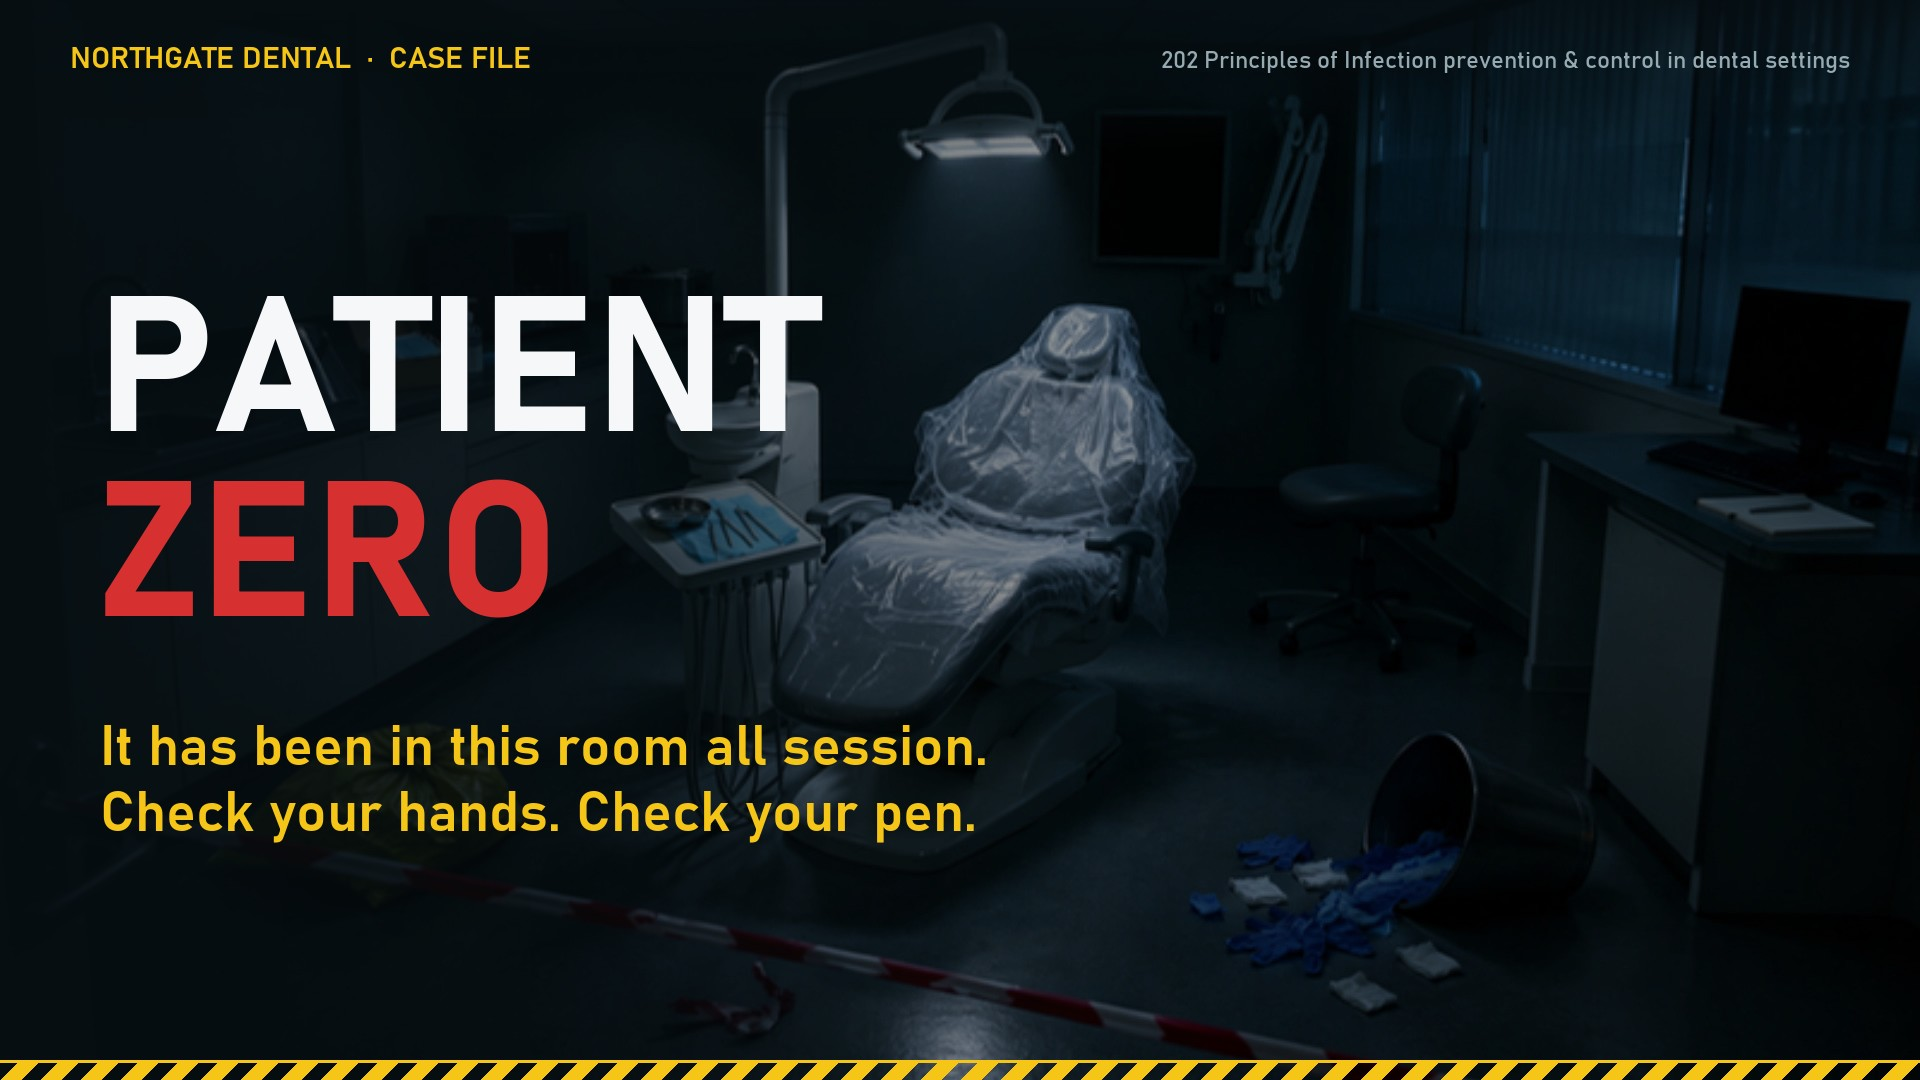
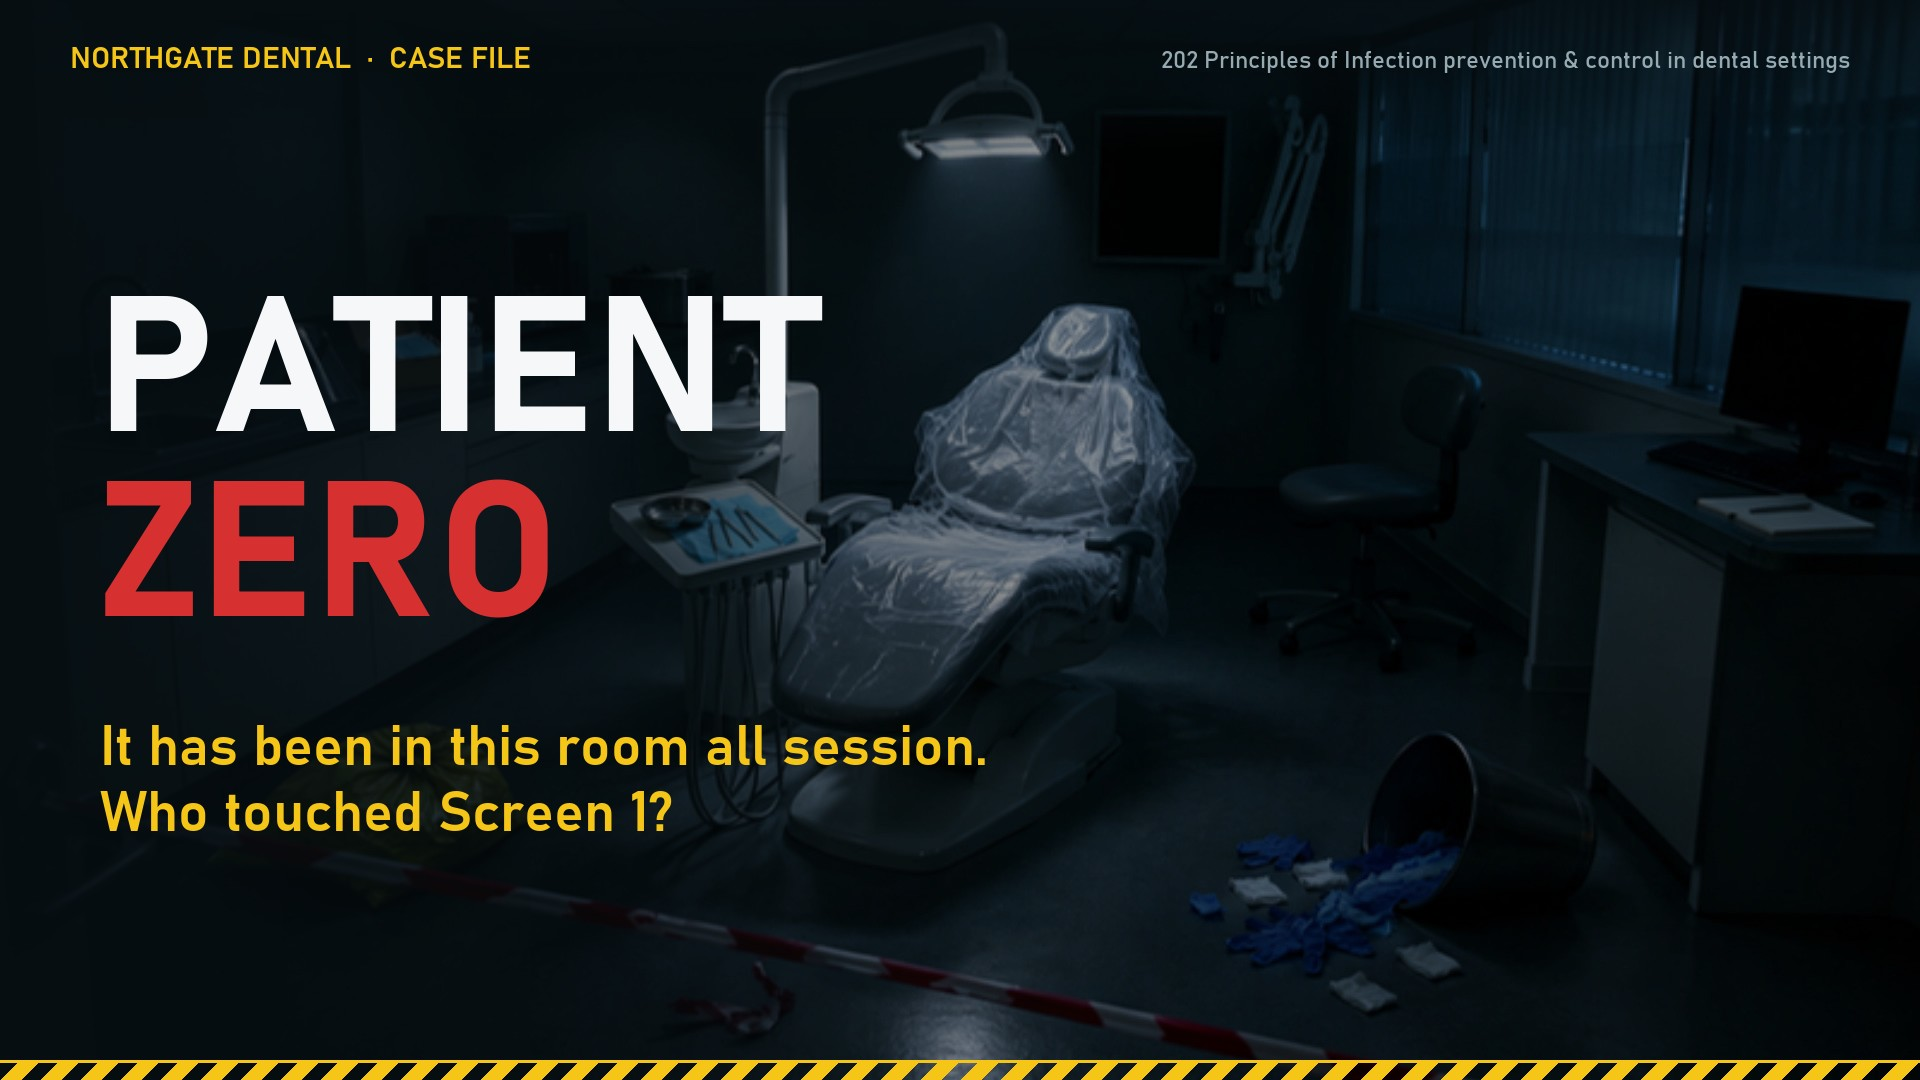
Patient Zero: touch-screen Patient Zero and voicemail transcript
No glitter: the first learner to tap Touch Screen 1 is Patient Zero.
The voicemail is now a written transcript slide. Adds a replace script
for anyone who ran the first version.

Changed region(s): [[0.0312, 0.7333, 0.5, 0.7944]]

diff --git a/docs/lessons/WWW.md b/docs/lessons/WWW.md
@@ -19,14 +19,14 @@ What proves itself here is collected in [WAYS-OF-WORKING.md](WAYS-OF-WORKING.md)
 - **Length:** 90 minutes, 28 steps. About 60 minutes at the whiteboard tables. Four whole-class moves
 - **Source:** the four cross infection decks in `Dentistry/` (Transmission of Micro-organisms, Prevention of Transmission, Infection Control in the Decontamination Room, Legislations), plus a Michigan Engineering clip on dental aerosols (20s to 66s)
 - **Lesson file:** [dental-patient-zero.sql](dental-patient-zero.sql)
-- **Slides:** 17 slides in the teacher's wording over five Canva AI photos, a hotspot crime scene photo, and a voicemail, in `public/lessons/dental-patient-zero/` and the media storage
+- **Slides:** 18 slides (17 in the teacher's wording, plus a voicemail transcript) over five Canva AI photos, and a hotspot crime scene photo, in `public/lessons/dental-patient-zero/` and the media storage
 - **Table packs:** none. Whiteboard tables yes, no printing, as asked.
 
 ### WWW in the build
 
 - **A story, not a deck.** Clark chose "Patient Zero" from three ideas: three patients at Northgate Dental have the same infection, the inspectors come Friday, and learners are the infection control team. Every step is part of the case.
-- **Transmission happens before it is taught.** One learner is secretly Patient Zero from the door (glitter on one table's pens, or on one handshake). The reveal at the end, and a word cloud of "how did it reach you?", closes the loop the voicemail opened.
-- **The first lesson to use Audio & Image.** The hook is a voicemail from the practice manager over the "Practice closed" photo, made with a British Windows voice and a phone-line filter. It costs no Canva credits, and the tutor can swap in their own recording.
+- **Transmission happens before it is taught, with nothing to buy.** The first learner to tap Touch Screen 1 on arrival is secretly Patient Zero, so the touch screen is the shared surface and their pen travels in the rotations. At the end the tutor asks who touched Screen 1, who used a pen from their table, and who shook hands, until most of the room is standing. A word cloud of "how did it reach you?" closes the loop the voicemail opened. (Glitter was the first plan, dropped because the session ran two hours after the build and nobody could buy any.)
+- **The voicemail is a transcript on screen,** styled as a phone voicemail over the dark surgery, read by learners and aloud by the tutor. A computer-voice recording was made but not used.
 - **A trap on purpose.** The wheel puts different patients in the chair (Hep B, HIV, a healthy teenager, your best friend) and tables plan the precautions each time, until they notice the answer never changes. That is universal precautions, found before it is named.
 - **The crime scene was asked for, then checked.** Canva AI was asked for a surgery with six named mistakes, and all six came out clearly (red mop, food and drink, an overfilled sharps bin, a phone on the tray, gloves on the chair, a blood spill). The circles were drawn on the photo and checked before building.
 - **The teacher's own tasks became the table tasks:** draw the decontamination room layout, and the exam question "explain transmission if gloves are not changed", peer-marked against the four tips from her slide.
@@ -38,7 +38,8 @@ What proves itself here is collected in [WAYS-OF-WORKING.md](WAYS-OF-WORKING.md)
 - Spot the Difference was planned but left out. It needs two matching photos, and Canva AI cannot make a matched pair. Photographing the college's own clinic room set up properly, then set up badly, would make a strong one.
 - The four decks are more than 90 minutes of content. The legislation was cut to a slide and a buzzer round (no research task), and impressions and repairs to one slide.
 - The one-line meanings under each law and the breach-to-law answers were written for this lesson. The teacher should check them.
-- The voicemail is a computer voice. A real recording from a member of staff would sound better.
+- A real voicemail recorded by a member of staff, played with Audio & Image, would make a stronger hook than the transcript.
+- Built two hours before teaching. The tutor had no time to click through the preview in advance.
 - No disabled person appears in the five photos.
 
 ### WWW in the room
